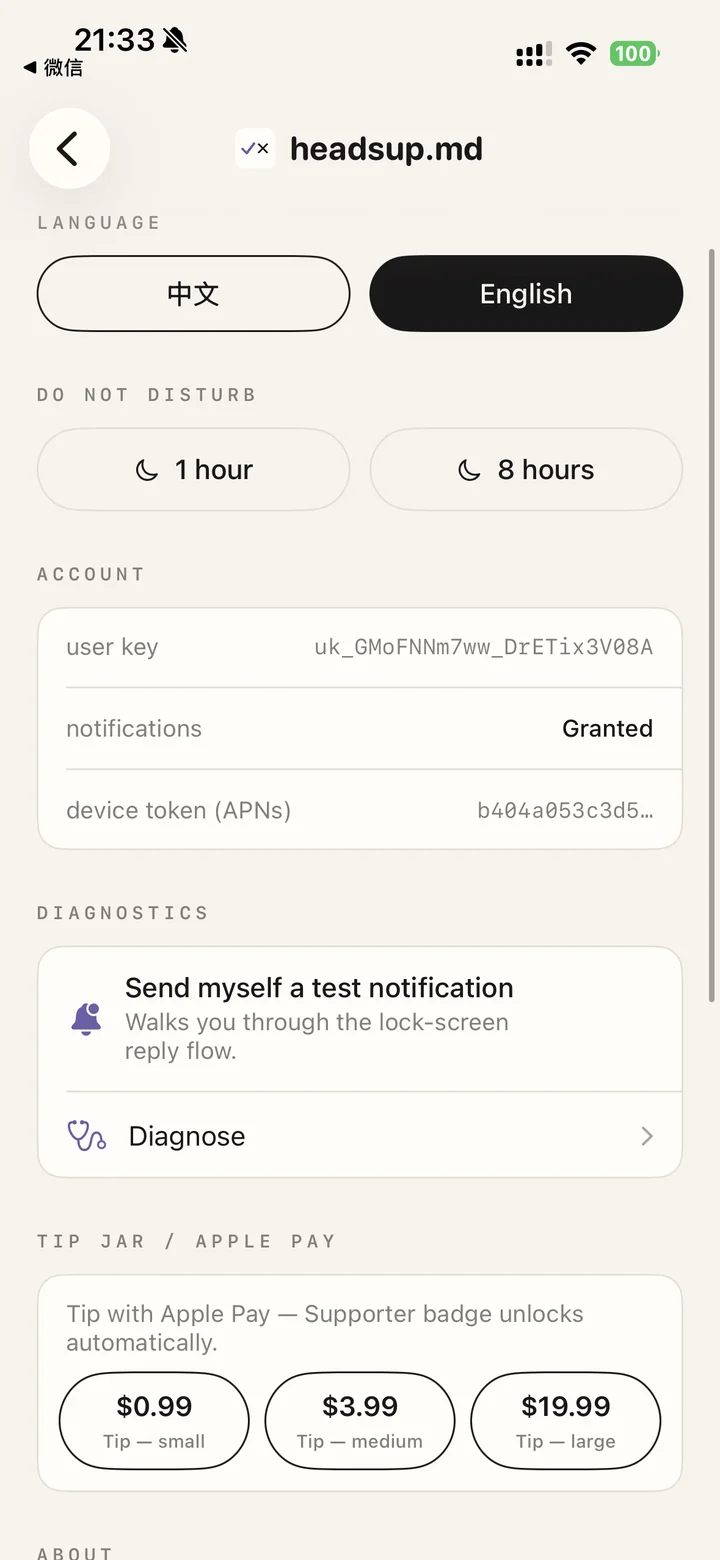
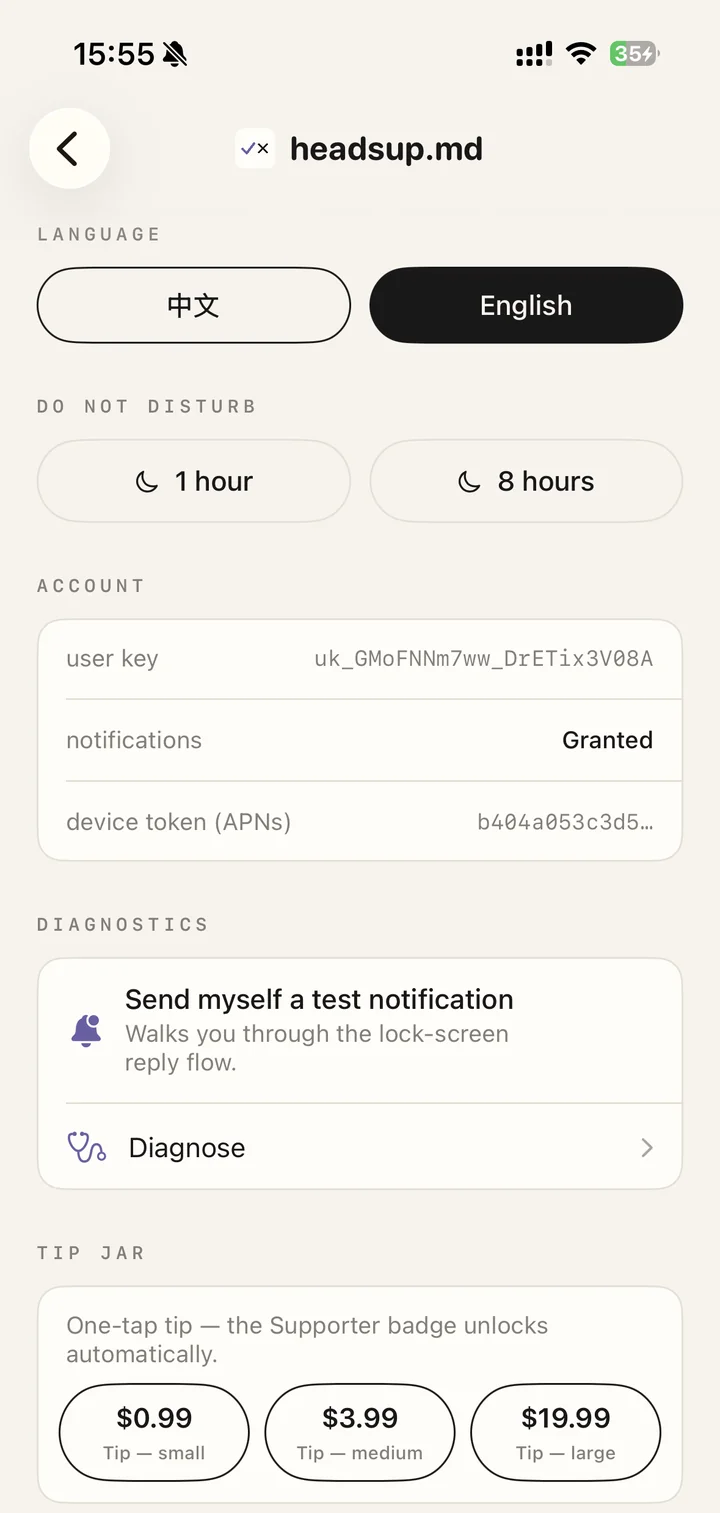
v1.1: marked-read rows show "已读" not "→ 已读" + new settings screenshot
UI: mark-all-read inserts a "_read" sentinel delivery server-side so
the unread count clears, but the row was rendering as if the user had
sent an actual reply ("→ 已读"). Treat _read as a "filed" state:
  - no arrow + accent-colored badge
  - muted "已读" / "Read" instead, in the muted-text style
  - also suppresses the inline action buttons that would otherwise
    re-appear once displayedReply went nil

Screenshot: replaced 05-settings (landing webp + ASC PNG) with the
post-rename capture — header is "TIP JAR" (no "Apple Pay") + the new
"One-tap tip — Supporter badge unlocks automatically" copy. Pushed
the new ASC version into 7/10 slot too.

diff --git a/ios/HeadsUp/Views/AgentDetailView.swift b/ios/HeadsUp/Views/AgentDetailView.swift
@@ -427,7 +427,22 @@ struct HistoryRow: View {
     @State private var renderedBodyCache: AttributedString = AttributedString()
     @State private var plainBodyCache: String = ""
 
-    private var displayedReply: String? { localReply ?? item.button_label }
+    /// What to render after the "→" arrow on a sent row. Skip the
+    /// "_read" sentinel that mark-all-read inserts server-side: it's a
+    /// local cleanup, not an actual reply to the agent, so it shouldn't
+    /// look like one in the UI.
+    private var displayedReply: String? {
+        if let lr = localReply { return lr }
+        if item.button_id == "_read" { return nil }
+        return item.button_label
+    }
+
+    /// User did mark-all-read on this row but never sent an actual reply.
+    /// Renders as a muted "已读" badge with no arrow, and suppresses the
+    /// inline reply buttons (the row is conceptually filed away).
+    private var isMarkedReadOnly: Bool {
+        item.button_id == "_read" && localReply == nil
+    }
 
     private var isInfoOnly: Bool { item.category_id == "info_only" }
 
@@ -530,6 +545,10 @@ struct HistoryRow: View {
                     Text("→ \(label)")
                         .font(HU.small(.semibold))
                         .foregroundStyle(HU.C.accent)
+                } else if isMarkedReadOnly {
+                    Text(T("已读", "Read"))
+                        .font(HU.small())
+                        .foregroundStyle(HU.C.muted)
                 }
                 // Visible copy chip on EVERY row, regardless of reply state.
                 // Long-press contextMenu still works for "with title" variant.
@@ -549,8 +568,10 @@ struct HistoryRow: View {
                 .buttonStyle(.plain)
             }
             .padding(.top, 2)
-            // Inline reply buttons — only when no reply yet AND the category has buttons.
-            if displayedReply == nil && item.category_id != "info_only" && !actions.isEmpty {
+            // Inline reply buttons — only when no reply yet AND the row
+            // hasn't been silently filed via mark-all-read AND the category
+            // actually has buttons.
+            if displayedReply == nil && !isMarkedReadOnly && item.category_id != "info_only" && !actions.isEmpty {
                 HStack(spacing: 8) {
                     ForEach(actions, id: \.id) { action in
                         Button {
